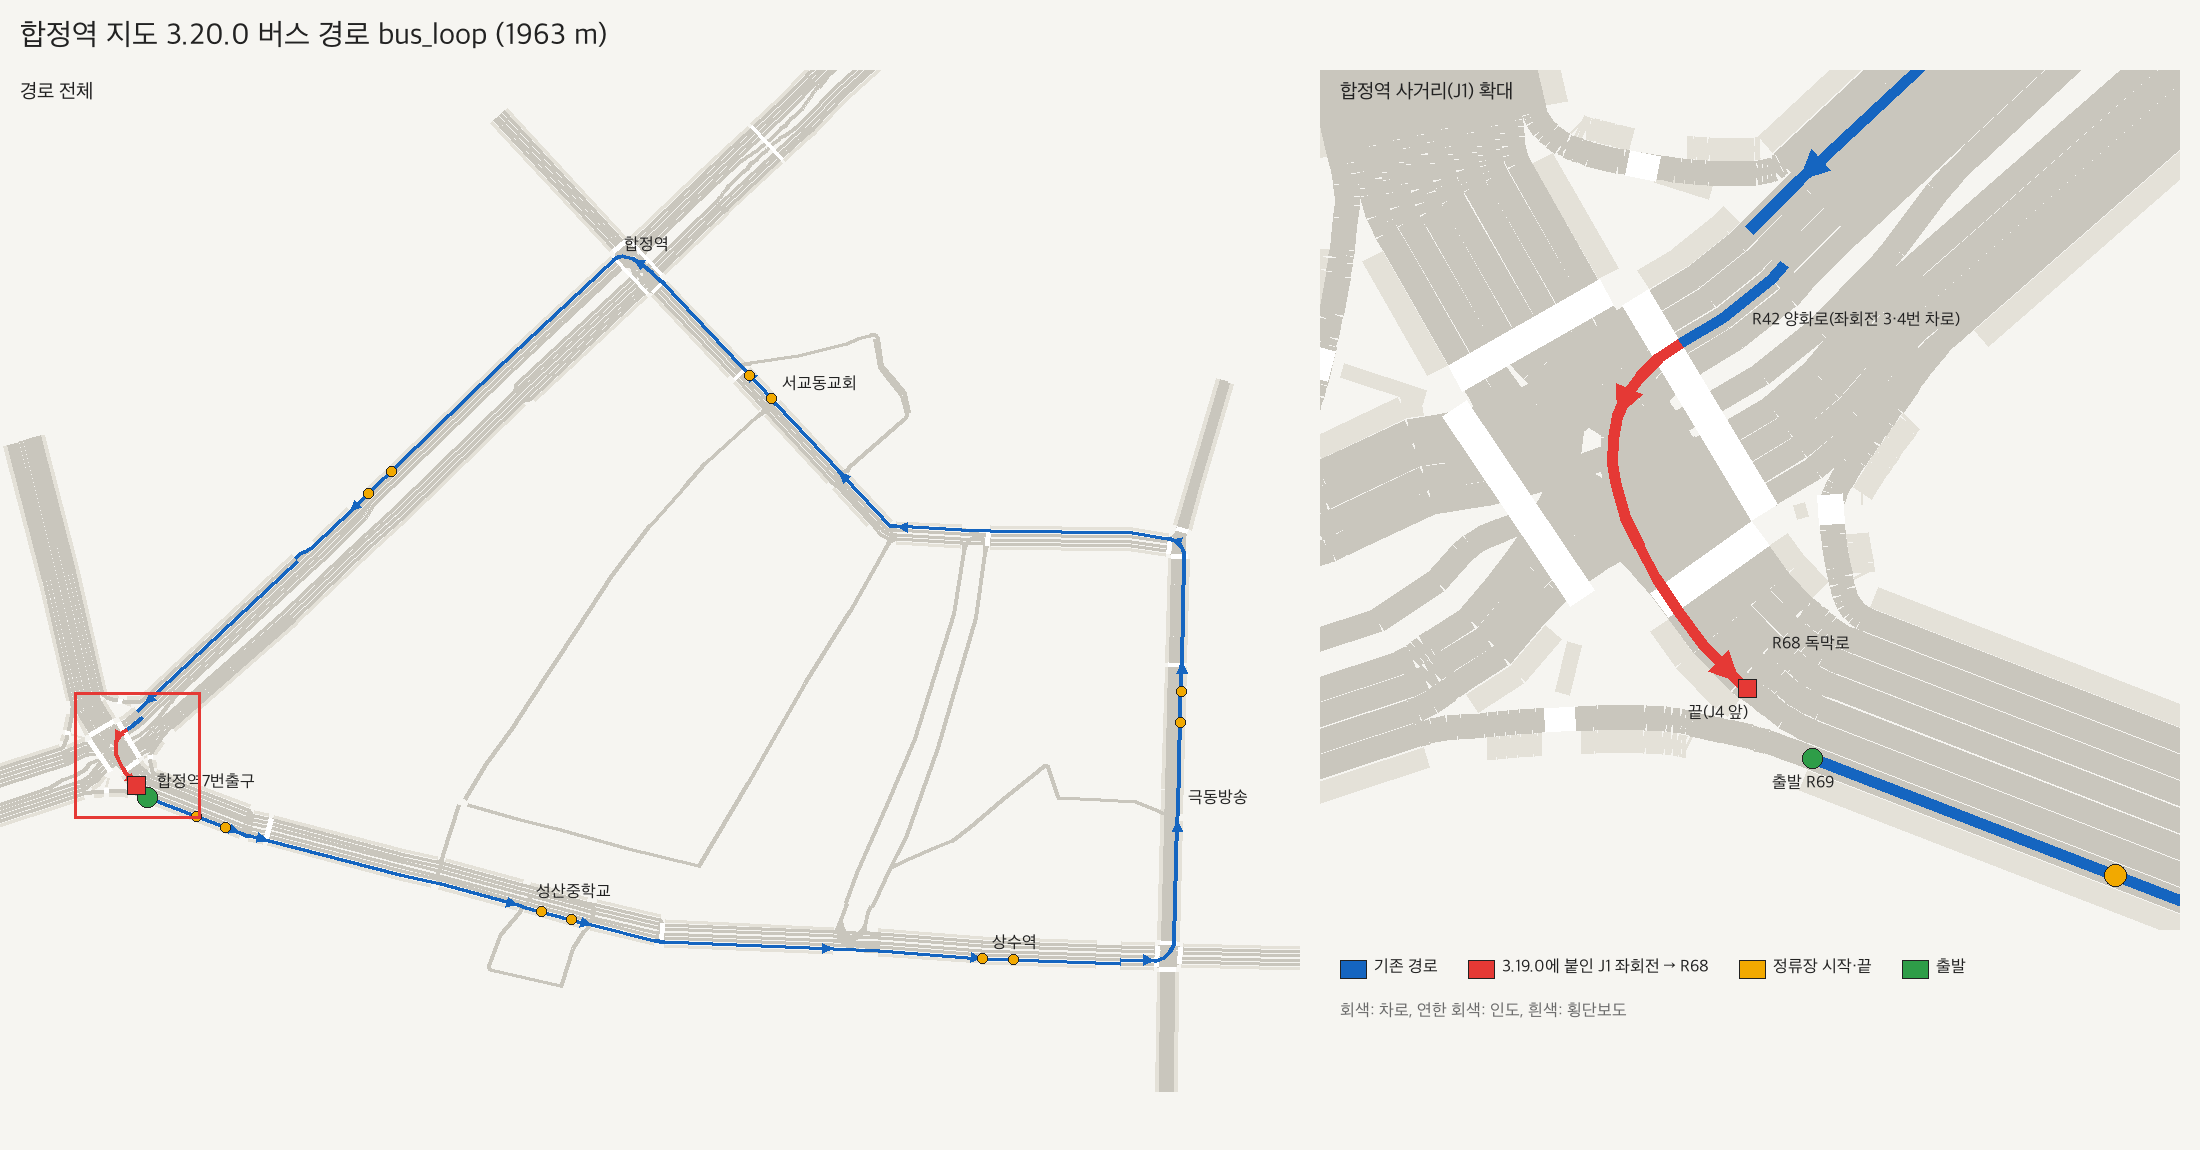
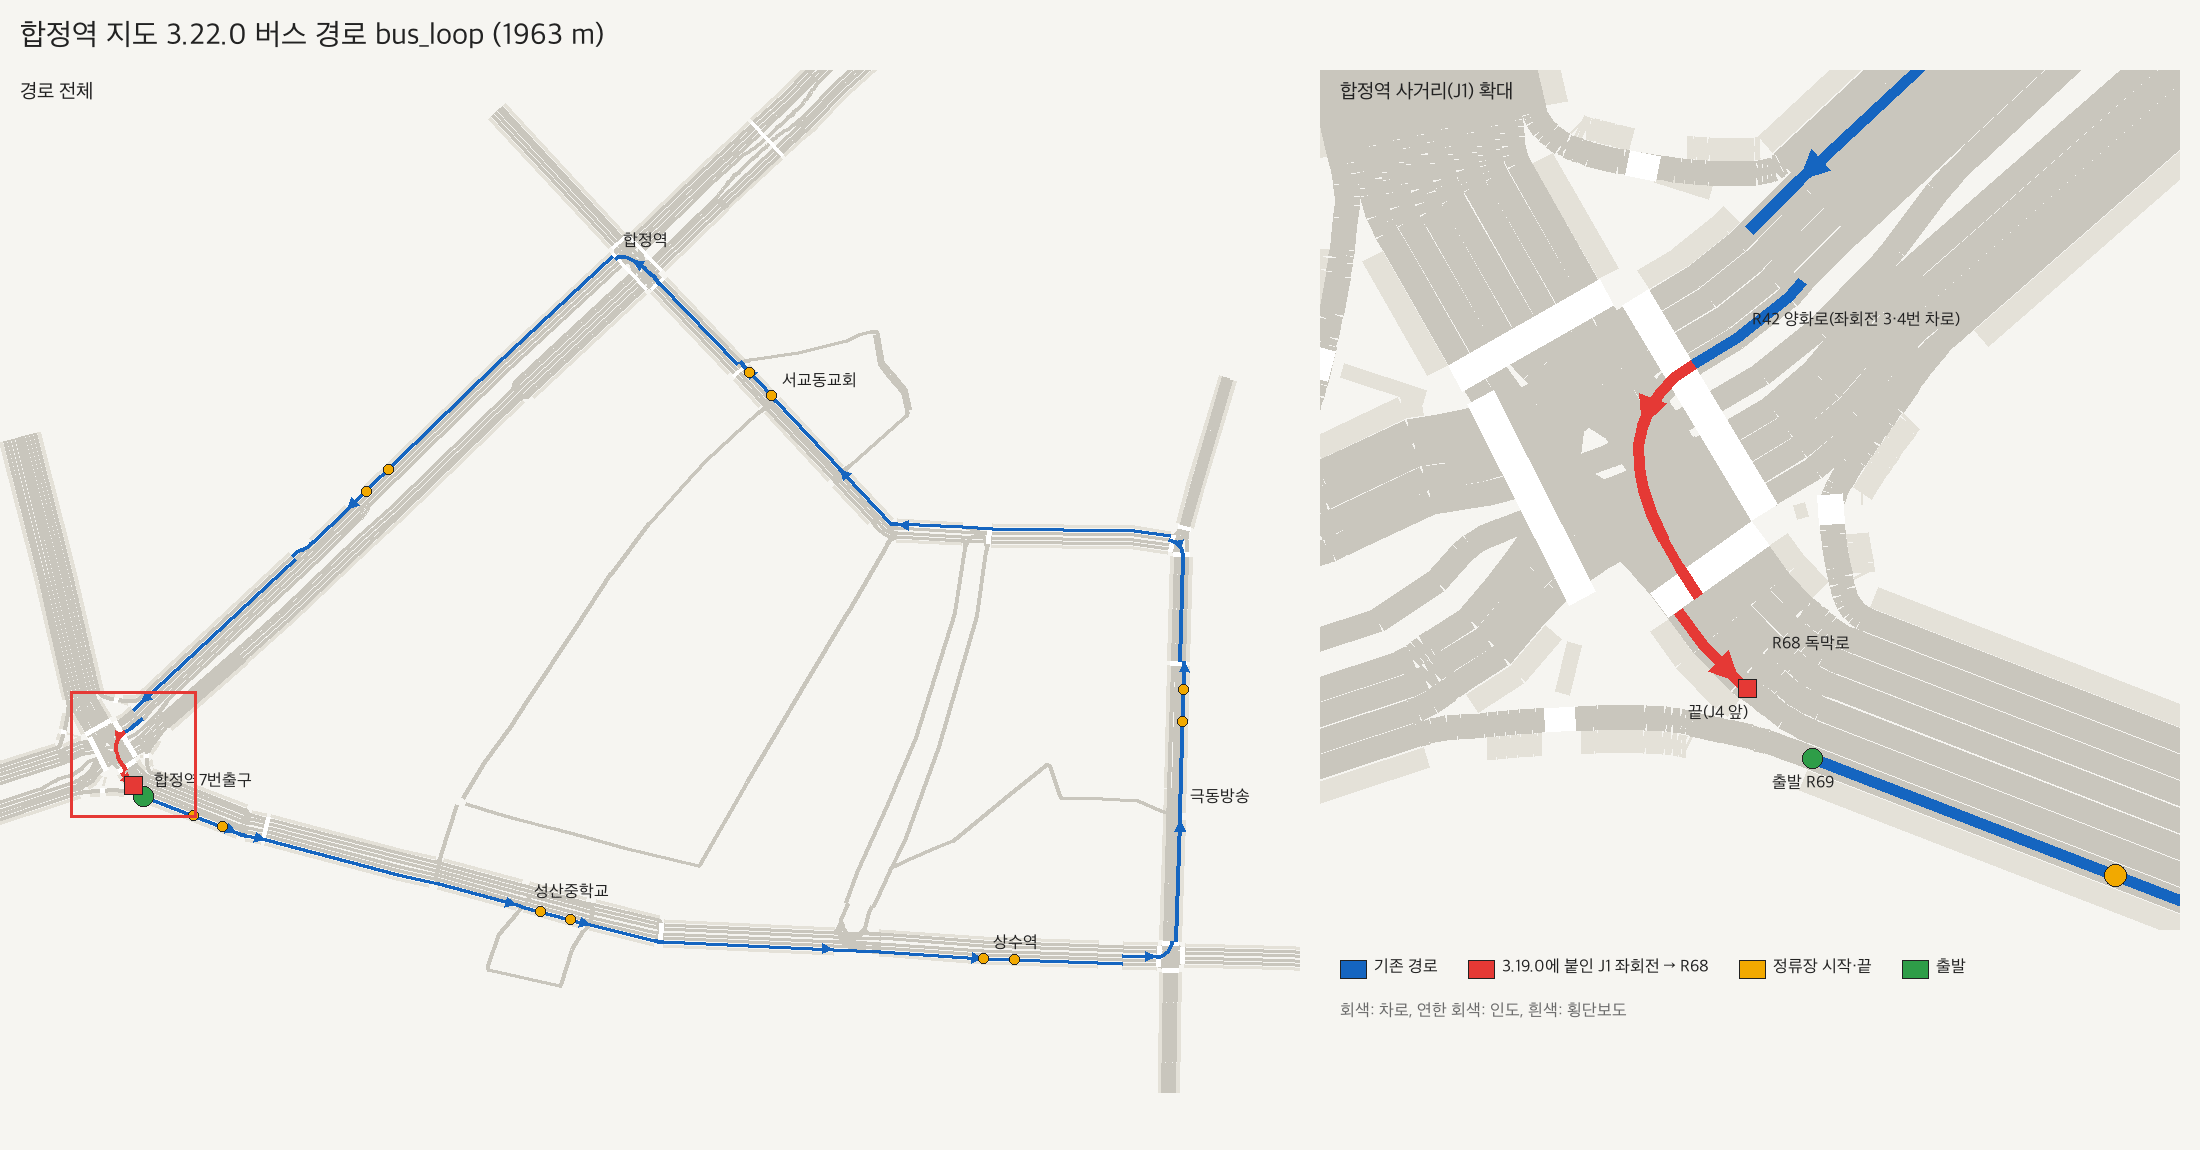
docs: 경로 그림을 도로망 3.22.0으로 다시 그리고 도로 재현 문장 바로잡기
일부 도로 수정은 빌드 스크립트가 아니라 별도 수정 스크립트로
얹었으므로, 웹페이지의 '누가 다시 만들어도 같은 도로망' 문장을
커밋된 도로망과 해시 확인으로 바꾼다.

diff --git a/web_page/index.html b/web_page/index.html
@@ -311,7 +311,7 @@
 
     <section class="article-section" aria-labelledby="road">
       <h2 id="road">도로와 SUMO 구현</h2>
-      <p>OpenStreetMap에서 만든 원본에 빌드 스크립트가 실제 지도와 대조해 고친 내용을 차례로 적용하므로, 누가 다시 만들어도 같은 도로망이 나온다.</p>
+      <p>OpenStreetMap에서 만든 원본에 빌드 스크립트와 수정 스크립트가 실제 지도와 대조해 고친 내용을 차례로 적용했다. 학습, 평가, 수집은 모두 저장소에 커밋된 도로망 하나를 읽고, 도로를 불러올 때 파일 해시로 같은 도로망인지 확인한다.</p>
       <div class="stat-row">
         <div class="stat"><b>1,963m</b><span>버스 순환 경로</span></div>
         <div class="stat"><b>4곳</b><span>버스가 서는 정류장</span></div>

diff --git a/scripts/render_bus_route.py b/scripts/render_bus_route.py
@@ -181,4 +181,4 @@ def render(out: Path) -> None:
 
 
 if __name__ == "__main__":
-    render(Path(sys.argv[1]) if len(sys.argv) > 1 else BASE / "reports" / "bus_loop_route.png")
+    render(Path(sys.argv[1]) if len(sys.argv) > 1 else BASE / "docs" / "img" / "bus_loop_route.png")
